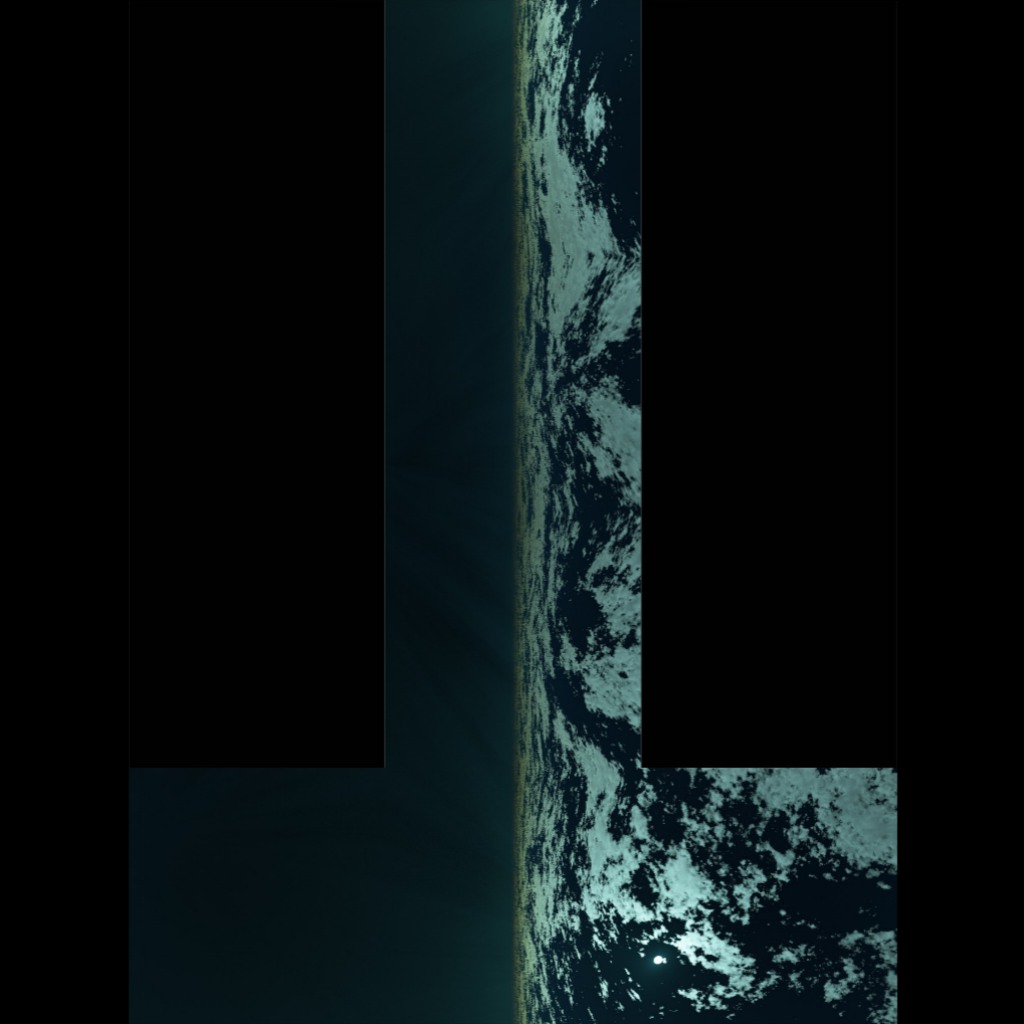
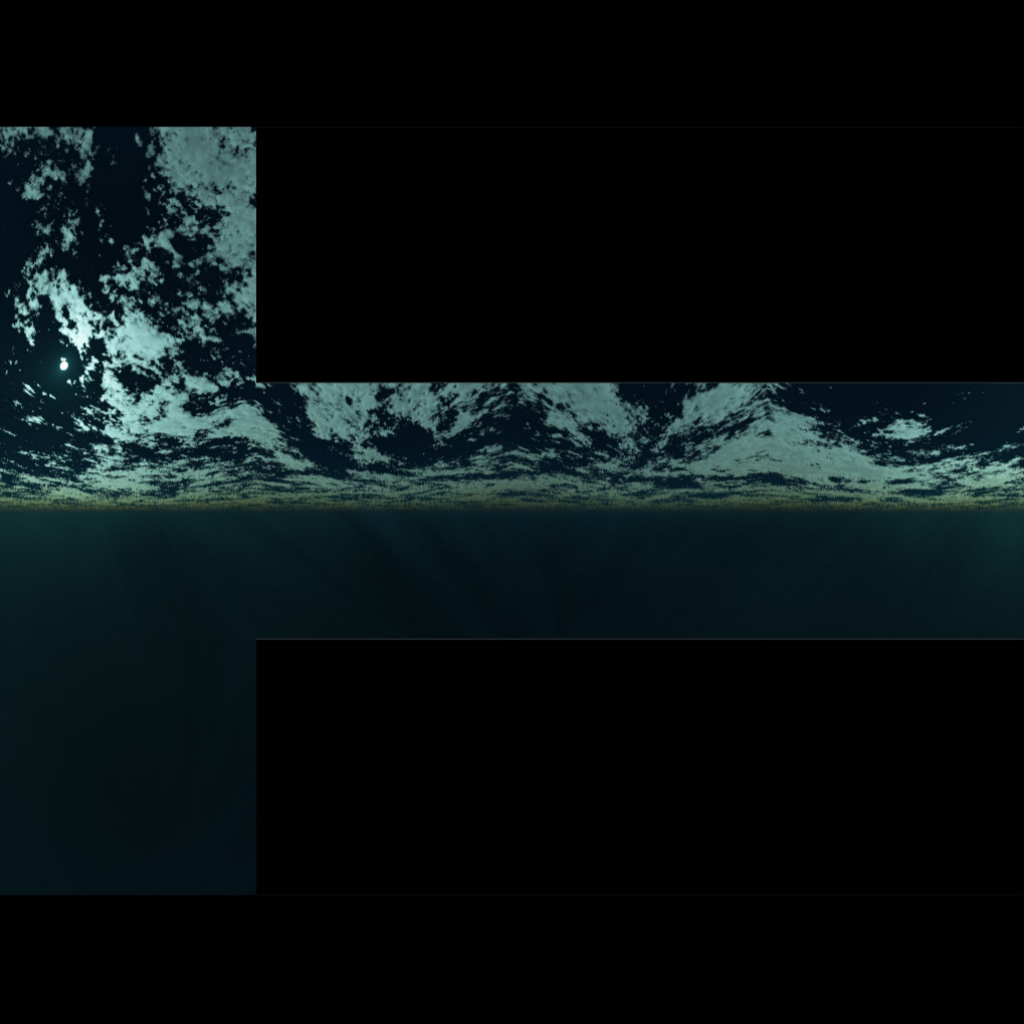
Transition Never Unloads

diff --git a/Engine/EngineSource/3D Engine/3DRendering/Rendering/Skybox/SkyBox.cpp b/Engine/EngineSource/3D Engine/3DRendering/Rendering/Skybox/SkyBox.cpp
@@ -1,6 +1,5 @@
 #include "EnginePCH.h"
 #include "SkyBox.h"
-#include "Source/Game/Actors/Player.h"
 
 
 SkyBox::SkyBox() : IRender()
@@ -18,21 +17,22 @@ HRESULT SkyBox::Init(ForwardRender* forwardRender)
 	if (!forwardRender)
 		return E_INVALIDARG;
 	HRESULT hr = 0;
-
-
 	this->p_forwardRender = forwardRender;
+	   
 	if (SUCCEEDED(hr = DXRHC::CreateConstantBuffer("SKYBOX_BUFFER", m_skyboxBuffer, sizeof(SkyboxBuffer))))
 	{		
-		if (SUCCEEDED(hr = DXRHC::CreateRasterizerState("SKYBOX_RASTERIZERSTATE", m_rasterizerState, 0, D3D11_CULL_FRONT, 10)))
+		if (SUCCEEDED(hr = DXRHC::CreateRasterizerState("SKYBOX_RASTERIZERSTATE", m_rasterizerState)))
 		{
 			D3D11_INPUT_ELEMENT_DESC inputDesc[] = {
 				{ "POSITION", 0, DXGI_FORMAT_R32G32B32A32_FLOAT, 0, 0, D3D11_INPUT_PER_VERTEX_DATA, 0 },
-				{ "UV", 0, DXGI_FORMAT_R32G32_FLOAT, 0, 16, D3D11_INPUT_PER_VERTEX_DATA, 0 },
+				{ "NORMAL", 0, DXGI_FORMAT_R32G32B32A32_FLOAT, 0, 16, D3D11_INPUT_PER_VERTEX_DATA, 0 },
+				{ "TANGENT", 0, DXGI_FORMAT_R32G32B32A32_FLOAT, 0, 32, D3D11_INPUT_PER_VERTEX_DATA, 0 },
+				{ "UV", 0, DXGI_FORMAT_R32G32B32A32_FLOAT, 0, 48, D3D11_INPUT_PER_VERTEX_DATA, 0 }
 			};
-			if (DX::g_shaderManager.VertexInputLayout(L"../Engine/Source/Shader/Skybox/SkyboxVertex.hlsl", "main", inputDesc, 2))
+			if (this->m_vertexShader = DX::g_shaderManager.VertexInputLayout(L"../Engine/EngineSource/Shader/Shaders/Skybox/SkyboxVertex.hlsl", "main", inputDesc, 4))
 			{
-				m_inputLayout = DX::g_shaderManager.GetInputLayout(L"../Engine/Source/Shader/Skybox/SkyboxVertex.hlsl");
-				if (DX::g_shaderManager.LoadShader<ID3D11PixelShader>(L"../Engine/Source/Shader/Skybox/SkyboxPixel.hlsl"))
+				m_inputLayout = DX::g_shaderManager.GetInputLayout(L"../Engine/EngineSource/Shader/Shaders/Skybox/SkyboxVertex.hlsl");
+				if (this->m_pixelShader = DX::g_shaderManager.LoadShader<ID3D11PixelShader>(L"../Engine/EngineSource/Shader/Shaders/Skybox/SkyboxPixel.hlsl"))
 				{
 					return S_OK;
 				}
@@ -40,7 +40,6 @@ HRESULT SkyBox::Init(ForwardRender* forwardRender)
 			}
 			throw std::exception("Vertexshader failed");
 		}		
-		return hr;
 	}
 	return hr;
 }
@@ -49,15 +48,17 @@ HRESULT SkyBox::Release()
 {
 	DX::SafeRelease(m_skyboxBuffer);
 	DX::SafeRelease(m_rasterizerState);
+	return S_OK;
 }
 
 HRESULT SkyBox::Draw(Drawable* drawable, const Camera & camera)
 {
 	if (!drawable || !drawable->getTexture())
 		return E_INVALIDARG;
-
-	ID3D11Buffer * vertexBuffer;
-	if (!(vertexBuffer = drawable->getStaticMesh()->getBuffer()))
+	   
+	StaticMesh * skyBox = drawable->getStaticMesh();
+	ID3D11Buffer * vertexBuffer = drawable->getStaticMesh()->getBuffer();
+	if (!vertexBuffer || !skyBox)
 	{
 		return E_INVALIDARG;
 	}
@@ -69,18 +70,21 @@ HRESULT SkyBox::Draw(Drawable* drawable, const Camera & camera)
 
 	if (FAILED(hr = DXRHC::MapBuffer(m_skyboxBuffer, &m_skyboxValues, sizeof(m_skyboxValues), 6, 1, ShaderTypes::vertex)))
 		return hr;
+	DX::g_deviceContext->IASetPrimitiveTopology(D3D11_PRIMITIVE_TOPOLOGY_TRIANGLELIST);
 
-	DX::g_deviceContext->IASetInputLayout(m_inputLayout);
-	DX::g_deviceContext->VSSetShader(m_vertexShader, nullptr, 0);
+	DX::g_deviceContext->IASetInputLayout(DX::g_shaderManager.GetInputLayout(L"../Engine/EngineSource/Shader/Shaders/Skybox/SkyboxVertex.hlsl"));
+	DX::g_deviceContext->VSSetShader(DX::g_shaderManager.GetShader<ID3D11VertexShader>(L"../Engine/EngineSource/Shader/Shaders/Skybox/SkyboxVertex.hlsl"), nullptr, 0);
 	DX::g_deviceContext->HSSetShader(nullptr, nullptr, 0);
 	DX::g_deviceContext->DSSetShader(nullptr, nullptr, 0);
 	DX::g_deviceContext->GSSetShader(nullptr, nullptr, 0);
-	DX::g_deviceContext->PSSetShader(m_pixelShader, nullptr, 0);
-
+	DX::g_deviceContext->PSSetShader(DX::g_shaderManager.GetShader<ID3D11PixelShader>(L"../Engine/EngineSource/Shader/Shaders/Skybox/SkyboxPixel.hlsl"), nullptr, 0);
 	DX::g_deviceContext->RSSetState(m_rasterizerState);
 
+
+	drawable->getTexture()->Bind(1);
+
 	DX::g_deviceContext->IASetVertexBuffers(0, 1, &vertexBuffer, &stride, &offset);
-	DX::g_deviceContext->Draw(drawable->getStaticMesh()->getSize(), 0);
+	DX::g_deviceContext->Draw(skyBox->getVertice().size(), 0);
 	return S_OK;
 }
 
@@ -92,10 +96,13 @@ HRESULT SkyBox::Draw(std::vector<DX::INSTANCING::GROUP> group, const Camera & ca
 void SkyBox::_createViewProjection(const Camera & camera)
 {
 	using namespace DirectX;
-
-	const XMMATRIX viewProjection = XMMatrixLookToLH(XMVectorZero(), 
+	const XMVECTOR zeropos = { 0,0,0,1 };
+	
+	const XMMATRIX view = XMMatrixLookToLH(zeropos,
 		XMLoadFloat4A(&camera.getDirection()), 
 		XMLoadFloat4A(&camera.getUP()));
+
+	const XMMATRIX viewProjection = XMLoadFloat4x4A(&camera.getProjection()) * XMMatrixTranspose(view);
 
 	XMStoreFloat4x4A(&m_skyboxValues.ViewProjection, viewProjection);
 }

diff --git a/Engine/EngineSource/3D Engine/3DRendering/Rendering/ForwardRender.cpp b/Engine/EngineSource/3D Engine/3DRendering/Rendering/ForwardRender.cpp
@@ -69,7 +69,7 @@ void ForwardRender::Init(IDXGISwapChain * swapChain,
 		if (SUCCEEDED(hr = m_shadowMap->Init(128, 128)))
 		{
 			m_lightCullingDistance = 50;
-			m_forceCullingLimit = 4;
+			m_forceCullingLimit = 6;
 		}
 		else
 			throw hr;
@@ -230,8 +230,10 @@ void ForwardRender::Init(IDXGISwapChain * swapChain,
 			m_skyBox = nullptr;
 
 			_com_error err(hr);
-			LPCTSTR errMsg = err.ErrorMessage();
-			OutputDebugString(errMsg);
+			std::wstring errMsg = L"Skybox: ";
+			errMsg.append(err.ErrorMessage());
+			errMsg.append(L"\n");
+			OutputDebugString(errMsg.c_str());
 		}
 	}
 	catch (const std::exception & e)
@@ -308,7 +310,6 @@ void ForwardRender::PrePass(Camera & camera)
 	DX::g_deviceContext->DSSetShader(nullptr, nullptr, 0);
 	DX::g_deviceContext->GSSetShader(nullptr, nullptr, 0);
 	DX::g_deviceContext->PSSetShader(nullptr, nullptr, 0);
-	DX::g_deviceContext->RSSetViewports(1, &m_viewport);
 	DX::g_deviceContext->OMSetBlendState(m_alphaBlend, 0, 0xffffffff);	
 	DX::g_deviceContext->OMSetRenderTargets(1, &m_backBufferRTV, m_depthStencilView);
 
@@ -577,8 +578,11 @@ void ForwardRender::Flush(Camera & camera)
 	DX::g_deviceContext->OMSetDepthStencilState(m_depthStencilState, NULL);
 	DX::g_deviceContext->PSSetSamplers(1, 1, &m_samplerState);
 	DX::g_deviceContext->PSSetSamplers(2, 1, &m_shadowSampler);
-	this->AnimationPrePass(camera);
 
+
+
+	this->AnimationPrePass(camera);
+#ifndef _DEPLOY
 	Camera * dbg_camera = nullptr;
 	if (Cheet::g_DBG_CAM)
 	{
@@ -592,8 +596,22 @@ void ForwardRender::Flush(Camera & camera)
 		
 		_mapCameraBuffer(*dbg_camera);
 	}
+#endif
 	//_mapCameraBuffer(*dbg_camera);
+	DX::g_deviceContext->RSSetViewports(1, &m_viewport);
 	this->PrePass(camera);
+	if (DX::g_skyBox)
+	{
+		DX::g_deviceContext->OMSetRenderTargets(1, &m_backBufferRTV, m_depthStencilView);
+		if (FAILED(hr = m_skyBox->Draw(DX::g_skyBox, camera)))
+		{
+			_com_error err(hr);
+			std::wstring errMsg = L"Skybox: ";
+			errMsg.append(err.ErrorMessage());
+			errMsg.append(L"\n");
+			OutputDebugString(errMsg.c_str());
+		}
+	}
 	
 	
 	DX::g_deviceContext->PSSetSamplers(1, 1, &m_samplerState);
@@ -619,7 +637,10 @@ void ForwardRender::Flush(Camera & camera)
 
 	if (Cheet::g_DBG_CAM)
 	{
+#ifndef _DEPLOY
+
 		_mapCameraBuffer(*dbg_camera);
+#endif
 	}
 	//_mapCameraBuffer(*dbg_camera);
 	this->GeometryPass(camera);
@@ -638,21 +659,14 @@ void ForwardRender::Flush(Camera & camera)
 	
 	_particlePass(&camera, true);
 
-	if (DX::g_skyBox)
-	{		
-		if (FAILED(hr = m_skyBox->Draw(DX::g_skyBox, camera)))
-		{
-			_com_error err(hr);
-			LPCTSTR errMsg = err.ErrorMessage();
-			OutputDebugString(errMsg);
-		}
-	}
 
 	DX::g_deviceContext->OMSetRenderTargets(1, &m_backBufferRTV, nullptr);
 	m_2DRender->GUIPass();
 	this->_wireFramePass(&camera);
-	
+#ifndef _DEPLOY
+
 	delete dbg_camera;
+#endif
 }
 
 void ForwardRender::Clear()
@@ -1715,7 +1729,7 @@ void ForwardRender::FlushScreenShoot(Camera& camera)
 	pos.y += 10;
 	dbg_camera->setPosition(pos);
 	//_mapCameraBuffer(*dbg_camera);
-	this->PrePass(camera);
+	//this->PrePass(camera);
 
 
 	DX::g_deviceContext->PSSetSamplers(1, 1, &m_samplerState);

diff --git a/RipTag/Source/Game/States/PlayState.cpp b/RipTag/Source/Game/States/PlayState.cpp
@@ -842,7 +842,10 @@ void PlayState::unLoad()
 		m_transitionState = nullptr;
 	}
 
-	m_pPauseMenu->unLoad(); 
+	m_pPauseMenu->unLoad();
+
+	delete DX::g_skyBox;
+	DX::g_skyBox = nullptr;
 }
 
 void PlayState::Load()
@@ -883,7 +886,12 @@ void PlayState::Load()
 	m_pPauseMenu->Load(); 
 
 
+	Manager::g_meshManager.loadStaticMesh("SKYBOX");
+	Manager::g_textureManager.loadTextures("SKYBOX");
 
+	DX::g_skyBox = new Drawable();
+	DX::g_skyBox->setModel(Manager::g_meshManager.getStaticMesh("SKYBOX"));
+	DX::g_skyBox->setTexture(Manager::g_textureManager.getTexture("SKYBOX"));
 
 	m_physicsThread = std::thread(&PlayState::_PhyscisThread, this, 0);
 }

diff --git a/RipTag/Source/Game/Level/Room.cpp b/RipTag/Source/Game/Level/Room.cpp
@@ -712,7 +712,7 @@ void Room::addPropsAndAssets(ImporterLibrary::PropItemToEngine propsAndAssets, T
 			_setPropAttributes(propsAndAssets.props[i], "BIGCEILING", assetVector, true, isRandomRoom);
 			break;
 		case(20):
-			_setPropAttributes(propsAndAssets.props[i], "THICKWALL", assetVector, true, isRandomRoom, true, 0.03f, 0.01f);	//set True
+			_setPropAttributes(propsAndAssets.props[i], "THICKWALL", assetVector, false, isRandomRoom, true, 0.03f, 0.01f);	//set True
 			break;
 		case(21):
 			_setPropAttributes(propsAndAssets.props[i], "THICKWALLWITHOPENING", assetVector, false, isRandomRoom);

diff --git a/Engine/EngineSource/3D Engine/Components/Camera.cpp b/Engine/EngineSource/3D Engine/Components/Camera.cpp
@@ -60,8 +60,8 @@ void Camera::_calcProjectionMatrix()
 
 void Camera::_calcViewProjectionMatrix()
 {
-	DirectX::XMMATRIX view = DirectX::XMLoadFloat4x4A(&this->m_view);
-	DirectX::XMMATRIX proj = DirectX::XMLoadFloat4x4A(&this->m_projection);
+	const DirectX::XMMATRIX view = DirectX::XMLoadFloat4x4A(&this->m_view);
+	const DirectX::XMMATRIX proj = DirectX::XMLoadFloat4x4A(&this->m_projection);
 
 	DirectX::XMStoreFloat4x4A(&this->m_viewProjection, proj * view);
 }

diff --git a/Engine/EngineSource/3D Engine/3DRendering/Framework/Engine3D.cpp b/Engine/EngineSource/3D Engine/3DRendering/Framework/Engine3D.cpp
@@ -14,7 +14,7 @@ std::vector<Drawable*>						DX::g_wireFrameDrawQueue;
 std::vector<Quad*>							DX::g_2DQueue;
 std::vector<VisibilityComponent*>			DX::g_visibilityComponentQueue;
 std::vector<ParticleEmitter*>				DX::g_emitters;
-RECT													DX::g_backBufferResolution;
+RECT										DX::g_backBufferResolution;
 
 bool DX::g_screenShootCamera = false;
 

diff --git a/Engine/EngineSource/3D Engine/Model/Meshes/StaticMesh.cpp b/Engine/EngineSource/3D Engine/Model/Meshes/StaticMesh.cpp
@@ -22,7 +22,7 @@ void StaticMesh::_createVertexBuffer()
 	HRESULT hr;
 	if (SUCCEEDED(hr = DX::g_device->CreateBuffer(&bufferDesc, &vertexData, &m_vertexBuffer)))
 	{
-		DX::SetName(m_vertexBuffer, "StaticMesh: m_vertexBuffer");
+		DX::SetName(m_vertexBuffer, this->m_meshName + "StaticMesh: m_vertexBuffer");
 	}
 }
 

diff --git a/Engine/EngineSource/3D Engine/3DRendering/Rendering/Skybox/SkyBox.h b/Engine/EngineSource/3D Engine/3DRendering/Rendering/Skybox/SkyBox.h
@@ -16,6 +16,7 @@ private:
 
 	ID3D11Buffer *			m_skyboxBuffer;	
 	ID3D11RasterizerState * m_rasterizerState;
+	ID3D11DepthStencilState * m_depthStencilState;
 
 	ID3D11InputLayout *		m_inputLayout;
 	ID3D11VertexShader *	m_vertexShader;
